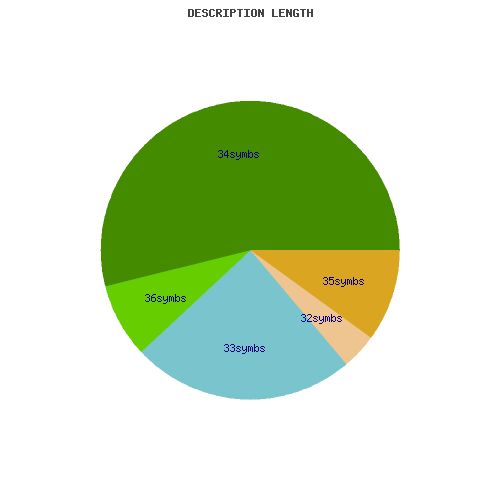
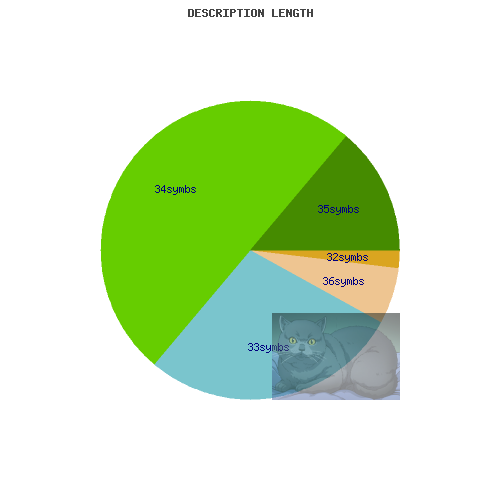
hw6 added watermark

Changed region(s): [[0.18, 0.18, 0.81, 0.81]]

diff --git a/apache-php/src/graphs/watermark.php b/apache-php/src/graphs/watermark.php
@@ -1,0 +1,32 @@
+<?php
+
+function resize_image($image, $w, $h): GdImage|bool
+{
+    $oldw = imagesx($image);
+    $oldh = imagesy($image);
+    $temp = imagecreatetruecolor($w, $h);
+    imagecopyresampled($temp, $image, 0, 0, 0, 0, $w, $h, $oldw, $oldh);
+    return $temp;
+}
+
+function add_watermark(string $to_add, string $watermark): void
+{
+    $stamp = imagecreatefrompng($watermark);
+    $im = imagecreatefrompng($to_add);
+
+    $stamp = resize_image($stamp, 128, 87);
+    imagealphablending($stamp, false);
+    imagesavealpha($stamp, true);
+    imagefilter($stamp, IMG_FILTER_COLORIZE, 0,0,0,127*0.5);
+
+    $marge_right = 100;
+    $marge_bottom = 100;
+    $sx = imagesx($stamp);
+    $sy = imagesy($stamp);
+
+    imagecopy($im, $stamp, imagesx($im) - $sx - $marge_right, imagesy($im) - $sy - $marge_bottom, 0, 0, imagesx($stamp), imagesy($stamp));
+
+    imagepng($im, $to_add);
+    imagedestroy($im);
+    imagedestroy($stamp);
+}

diff --git a/apache-php/src/graphs/endpoint.php b/apache-php/src/graphs/endpoint.php
@@ -17,12 +17,17 @@ require_once 'fakeCatsGenerator.php';
 require_once 'pieGraph.php';
 require_once 'barGraph.php';
 require_once 'scatterGraph.php';
+require_once 'watermark.php';
 
 file_put_contents('fakeCats.json', json_encode(generate_cats(50)));
 
 draw_pie();
 draw_bar();
 draw_scatter();
+
+add_watermark('pie.png', 'cat_watermark.png');
+add_watermark('bar.png', 'cat_watermark.png');
+add_watermark('scatter.png', 'cat_watermark.png');
 ?>
 <div>
     <img src="pie.png">
